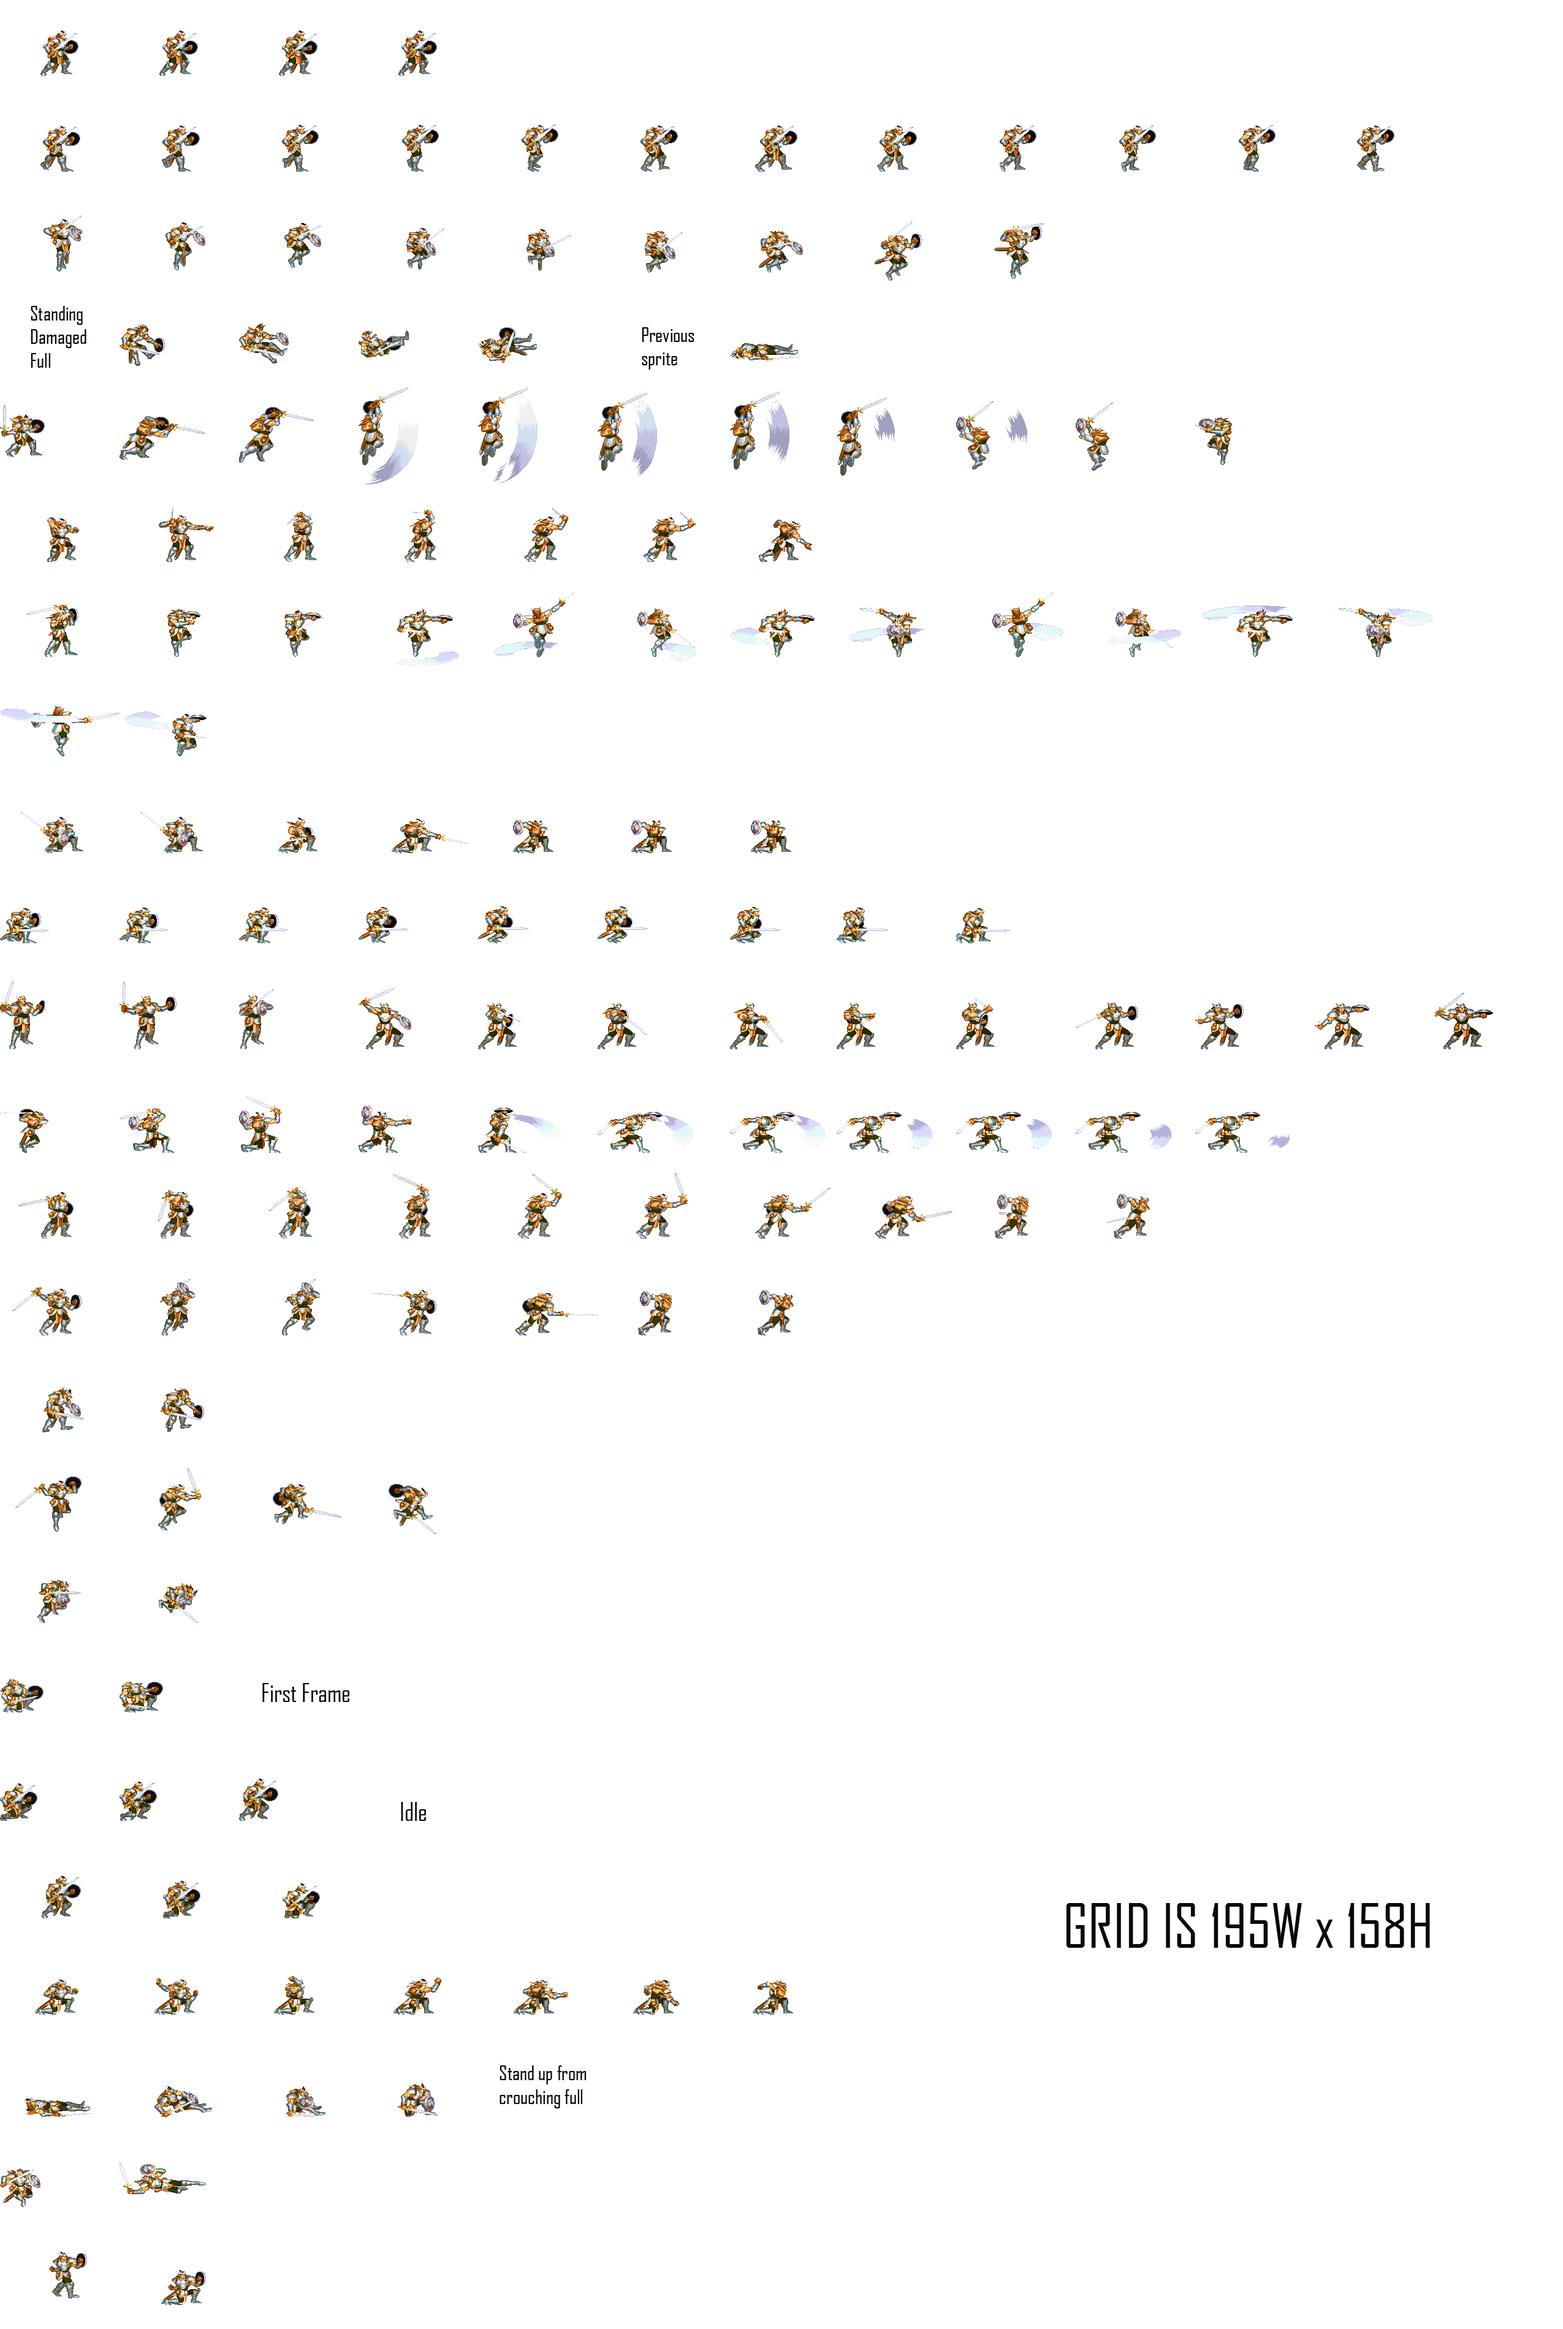
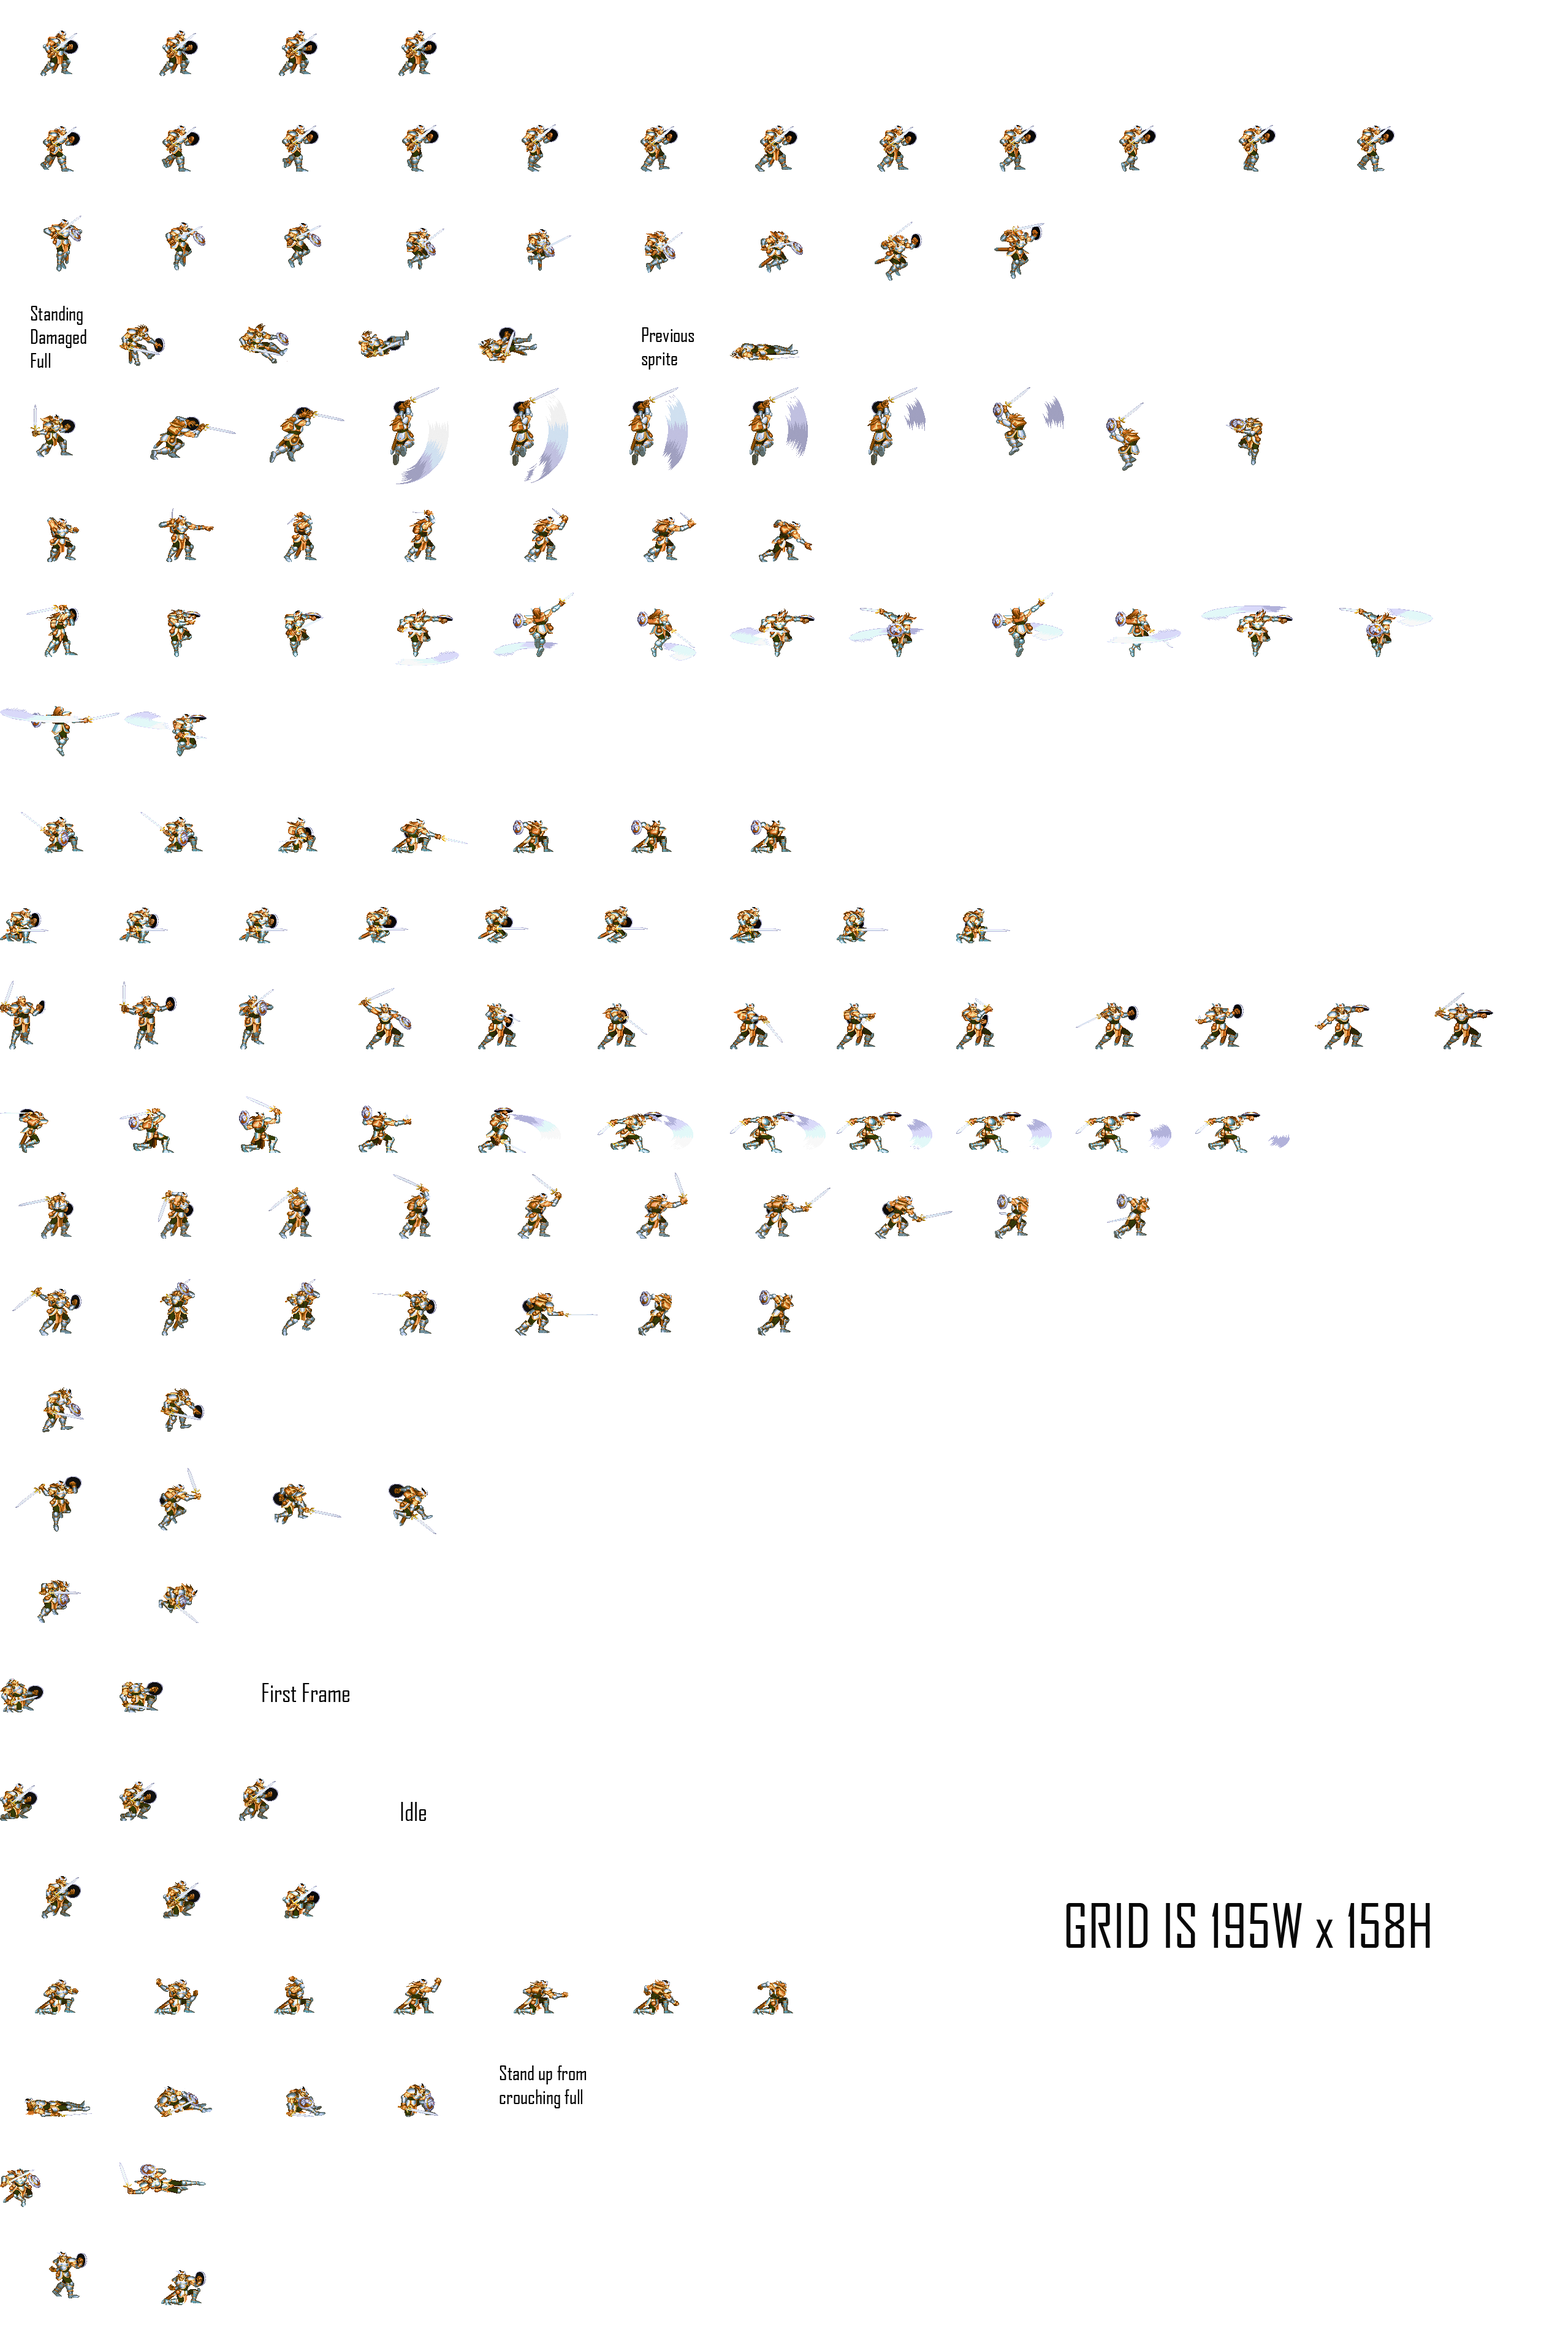
Crouching special 2 (swordyuken) yet to revise

diff --git a/src/Warrior.cpp b/src/Warrior.cpp
@@ -2,7 +2,7 @@
 #include "mdCollision.h"
 #include "mdProjectiles.h"
 
-Warrior::Warrior(int x_pos, bool _fliped, int lane): Character() {
+Warrior::Warrior(int x_pos, bool _fliped, int lane) : Character() {
 
 	this->lane = lane;
 
@@ -19,16 +19,16 @@ Warrior::Warrior(int x_pos, bool _fliped, int lane): Character() {
 
 	walk_forward.PushBack({ 0,158,195,158 });
 	walk_forward.PushBack({ 195,158,195,158 });
-	walk_forward.PushBack({ 195*2,158,195,158 });
-	walk_forward.PushBack({ 195*3,158,195,158 });
-	walk_forward.PushBack({ 195*4,158,195,158 });
-	walk_forward.PushBack({ 195*5,158,195,158 });
-	walk_forward.PushBack({ 195*6,158,195,158 });
-	walk_forward.PushBack({ 195*7,158,195,158 });
-	walk_forward.PushBack({ 195*8,158,195,158 });
-	walk_forward.PushBack({ 195*9,158,195,158 });
-	walk_forward.PushBack({ 195*10,158,195,158 });
-	walk_forward.PushBack({ 195*11,158,195,158 });
+	walk_forward.PushBack({ 195 * 2,158,195,158 });
+	walk_forward.PushBack({ 195 * 3,158,195,158 });
+	walk_forward.PushBack({ 195 * 4,158,195,158 });
+	walk_forward.PushBack({ 195 * 5,158,195,158 });
+	walk_forward.PushBack({ 195 * 6,158,195,158 });
+	walk_forward.PushBack({ 195 * 7,158,195,158 });
+	walk_forward.PushBack({ 195 * 8,158,195,158 });
+	walk_forward.PushBack({ 195 * 9,158,195,158 });
+	walk_forward.PushBack({ 195 * 10,158,195,158 });
+	walk_forward.PushBack({ 195 * 11,158,195,158 });
 
 	walk_forward.loop = true;
 	walk_forward.speed = 0.2;
@@ -57,7 +57,7 @@ Warrior::Warrior(int x_pos, bool _fliped, int lane): Character() {
 	light_attack.PushBack({ 195 * 5,158 * 13,195, 158 });
 
 	light_attack.loop = false;
-	light_attack.speed = 0.3;
+	light_attack.speed = 0.2;
 
 	heavy_attack.PushBack({ 0,158 * 12,195, 158 });
 	heavy_attack.PushBack({ 195,158 * 12,195, 158 });
@@ -87,7 +87,7 @@ Warrior::Warrior(int x_pos, bool _fliped, int lane): Character() {
 	crouching_light.PushBack({ 195 * 6,158 * 20,195,158 });
 
 	crouching_light.loop = false;
-	crouching_light.speed = 0.5;
+	crouching_light.speed = 0.2;
 
 	crouching_heavy.PushBack({ 0,158 * 8,195,158 });
 	crouching_heavy.PushBack({ 195,158 * 8,195,158 });
@@ -99,7 +99,7 @@ Warrior::Warrior(int x_pos, bool _fliped, int lane): Character() {
 
 	crouching_heavy.loop = false;
 	crouching_heavy.speed = 0.2;
-	
+
 	jump.PushBack({ 0, 158 * 2, 195, 158 });
 	jump.PushBack({ 195, 158 * 2, 195, 158 });
 	jump.PushBack({ 195 * 2, 158 * 2, 195, 158 });
@@ -171,6 +171,8 @@ Warrior::Warrior(int x_pos, bool _fliped, int lane): Character() {
 	standing_special1.speed = 0.1;
 
 	standing_special2.PushBack({ 0, 948, 195, 158 });
+	standing_special2.PushBack({ 0, 948, 195, 158 });
+	standing_special2.PushBack({ 0, 948, 195, 158 });
 	standing_special2.PushBack({ 195, 948, 195, 158 });
 	standing_special2.PushBack({ 390, 948, 195, 158 });
 	standing_special2.PushBack({ 585, 948, 195, 158 }, ACTIVE);
@@ -187,6 +189,23 @@ Warrior::Warrior(int x_pos, bool _fliped, int lane): Character() {
 
 	standing_special2.loop = false;
 	standing_special2.speed = 0.3;
+
+	crouching_special2.PushBack({ 0, 632, 195, 158 });
+	crouching_special2.PushBack({ 195, 632, 195, 158 });
+	crouching_special2.PushBack({ 390, 632, 195, 158 });
+	crouching_special2.PushBack({ 585, 632, 195, 158 }, ACTIVE);
+	crouching_special2.PushBack({ 780, 632, 195, 158 });
+	crouching_special2.PushBack({ 975, 632, 195, 158 });
+	crouching_special2.PushBack({ 1170, 632, 195, 158 });
+	crouching_special2.PushBack({ 1365, 632, 195, 158 });
+	crouching_special2.PushBack({ 1560, 632, 195, 158 });
+	crouching_special2.PushBack({ 1755, 632, 195, 158 });
+	crouching_special2.PushBack({ 1755, 632, 195, 158 });
+	crouching_special2.PushBack({ 1950, 632, 195, 158 });
+	crouching_special2.PushBack({ 1950, 632, 195, 158 });
+	
+	crouching_special2.loop = false;
+	crouching_special2.speed = 0.15;
 
 	// Basic attack definitions
 
@@ -294,6 +313,19 @@ Warrior::Warrior(int x_pos, bool _fliped, int lane): Character() {
 	st_s2.juggle_speed.y = 3;
 	st_s2.block_type = BLOCK_TYPE::MID;
 
+	cr_s2.pos_rel_char = { 100,0 };
+	cr_s2.hitbox = { 0,0,100,300 };
+	cr_s2.active_time = -1;
+	cr_s2.hitstun = -1;
+	cr_s2.blockstun = 300;
+	cr_s2.pushhit = 20;
+	cr_s2.pushblock = 2;
+	cr_s2.damage = 17;
+	cr_s2.knockdown = true;
+	cr_s2.juggle_speed.x = 5;
+	cr_s2.juggle_speed.y = 5;
+	cr_s2.block_type = BLOCK_TYPE::MID;
+
 	// Other variable initialization
 	grounded = false;
 	instanciated_hitbox = false;
@@ -381,4 +413,29 @@ void Warrior::standingSpecial2()	{
 	collider* hitbox = getCurrentAttackHitbox();
 	if (hitbox != nullptr)
 		hitbox->SetPos(calculateDrawPosition(st_s2.pos_rel_char.x, st_s2.hitbox.w, true), calculateDrawPosition(st_s2.pos_rel_char.y, st_s2.hitbox.h, false));
+}
+
+void Warrior::crouchingSpecial2()	{
+
+	if (grounded)
+		velocity.y -= jump_power.y/1.25,	grounded = false;
+	
+	if (velocity.y >= 0)
+		velocity.y = 0, current_state = JUMPING;
+
+	if (current_animation->Finished()) {
+		current_state = IDLE;
+		instanciated_hitbox = false;
+		collider* hitbox = getCurrentAttackHitbox();
+		if (hitbox != nullptr) { // Just for safety
+			deleteAttackHitbox(JM_L);
+		}
+	}
+	else if (current_animation->GetState() == ACTIVE && !instanciated_hitbox)
+		instanciateHitbox(CR_S2);
+
+	collider* hitbox = getCurrentAttackHitbox();
+	if (hitbox != nullptr)
+		hitbox->SetPos(calculateDrawPosition(cr_s2.pos_rel_char.x, cr_s2.hitbox.w, true), calculateDrawPosition(cr_s2.pos_rel_char.y, cr_s2.hitbox.h, false));
+
 }

diff --git a/src/Character.cpp b/src/Character.cpp
@@ -588,6 +588,10 @@ void Character::doAttack() {
 		updateAnimation(standing_special2);
 		standingSpecial2();
 		break;
+	case CR_S2:
+		updateAnimation(crouching_special2);
+		crouchingSpecial2();
+		break;
 	case JM_S1:
 	case JM_S2:
 		current_state = JUMPING;
@@ -636,6 +640,10 @@ void Character::instanciateHitbox(CHAR_ATT_TYPE type) 	{
 		case ST_S2:
 			collider = { calculateDrawPosition(st_s2.pos_rel_char.x, st_s2.hitbox.w, true), calculateDrawPosition(st_s2.pos_rel_char.y, st_s2.hitbox.h, false), st_s2.hitbox.w, st_s2.hitbox.h };
 			life = st_s2.active_time;
+			break;
+		case CR_S2:
+			collider = { calculateDrawPosition(cr_s2.pos_rel_char.x, cr_s2.hitbox.w, true), calculateDrawPosition(cr_s2.pos_rel_char.y, cr_s2.hitbox.h, false), cr_s2.hitbox.w, cr_s2.hitbox.h };
+			life = cr_s2.active_time;
 	}
 	hitboxes.push_back(App->collision->AddCollider(collider, HITBOX,life ,type, App->entities, this));
 	instanciated_hitbox = true;
@@ -676,6 +684,9 @@ basic_attack_deff Character::getAttackData(CHAR_ATT_TYPE attack_type) {
 			break;
 		case ST_S2:
 			return st_s2;
+			break;
+		case CR_S2:
+			return cr_s2;
 			break;
 		case NO_ATT:
 			LOG("FATAL ERROR");

diff --git a/src/Character.h b/src/Character.h
@@ -141,6 +141,7 @@ protected:
 	//Special functions
 	virtual void standingSpecial1() { return; };
 	virtual void standingSpecial2() { return; };
+	virtual void crouchingSpecial2() { return; };
 
 protected:
 

diff --git a/src/Warrior.h b/src/Warrior.h
@@ -14,6 +14,7 @@ public:
 
 	void standingSpecial1();
 	void standingSpecial2();
+	void crouchingSpecial2();
 
 };
 
